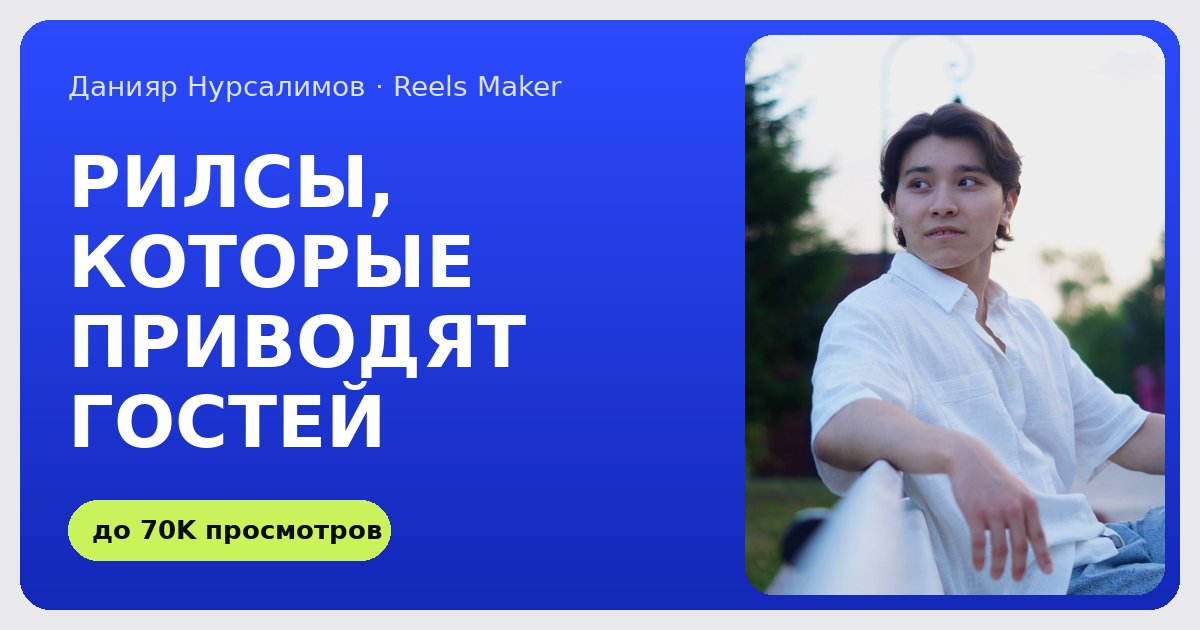
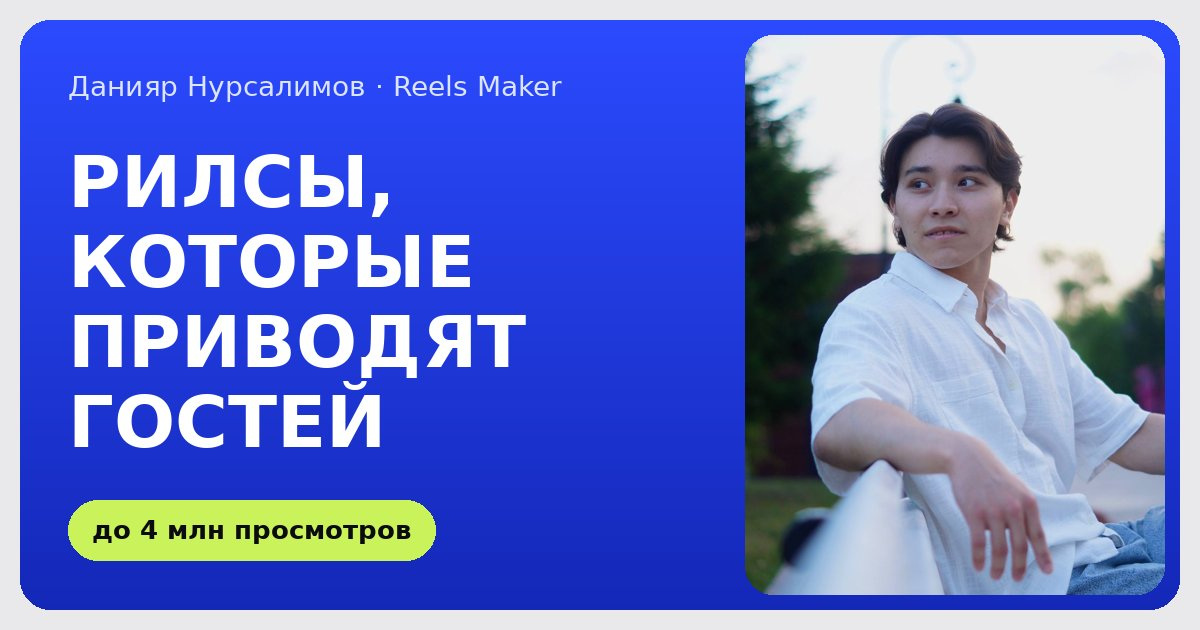
Fill Reels cases with YOKO, Chico and blog data; 4M views in header
- Cases reordered: YOKO, Chico, personal blog
- YOKO: big 4M plaque, 6270 followers / 662K likes tiles, TikTok link
- Chico: new title and texts, no account link
- Blog: 127K per day on best reel and 51K over 30 days, Instagram link
- Header stat, hero chip, meta and og descriptions: 70K -> 4M
- OG preview image regenerated with the new number
- Case videos: 9:16 with poster, loaded and played only on click
- Play button hidden when a case has no video

Claude-Session: https://claude.ai/code/session_01Y36Lw1QfzpX6iKxynzhUKg

Changed region(s): [[0.0925, 0.7841, 0.37, 0.9048]]

diff --git a/reels/index.html b/reels/index.html
@@ -4,7 +4,7 @@
 <meta charset="UTF-8">
 <meta name="viewport" content="width=device-width, initial-scale=1.0, viewport-fit=cover">
 <title>Данияр Нурсалимов — Reels Maker | Рилсы для кафе, ресторанов и магазинов</title>
-<meta name="description" content="Снимаю рилсы, которые приводят гостей, а не просто набирают лайки. Идея, сценарий, съёмка, монтаж и съёмка с моим участием в кадре. До 70K просмотров на ролик.">
+<meta name="description" content="Снимаю рилсы, которые приводят гостей, а не просто набирают лайки. Идея, сценарий, съёмка, монтаж и съёмка с моим участием в кадре. До 4 млн просмотров на лучшем ролике.">
 <meta name="author" content="Данияр Нурсалимов">
 <meta name="robots" content="index, follow">
 <meta name="theme-color" content="#2340EE">
@@ -16,7 +16,7 @@
 <meta property="og:locale" content="ru_RU">
 <meta property="og:url" content="https://daniyard4.github.io/reels/">
 <meta property="og:title" content="Данияр — Reels Maker. Рилсы, которые приводят гостей">
-<meta property="og:description" content="Идея, съёмка, монтаж и лицо бренда в кадре. Для кафе, ресторанов и магазинов.">
+<meta property="og:description" content="До 4 млн просмотров на лучшем ролике. Идея, съёмка, монтаж и лицо бренда в кадре — для кафе, ресторанов и магазинов.">
 <meta property="og:image" content="https://daniyard4.github.io/reels/og.jpg">
 <meta property="og:image:width" content="1200">
 <meta property="og:image:height" content="630">
@@ -296,6 +296,7 @@ ul{margin:0;padding:0;list-style:none;}
   width:52px;height:52px;border-radius:50%;background:#fff;color:var(--ink);
   display:grid;place-items:center;border:0;cursor:pointer;flex:none;
 }
+.play[hidden]{display:none;}
 .play svg{width:18px;height:18px;margin-left:3px;}
 .reel-glyph{
   position:absolute;inset:0;display:grid;place-items:center;
@@ -312,9 +313,40 @@ ul{margin:0;padding:0;list-style:none;}
   position:absolute;inset:0;background:url(photo.webp) 50% 20%/cover;opacity:.35;mix-blend-mode:luminosity;
 }
 
+.reel.has-video{aspect-ratio:9/16;}
+.reel video{background:#000;}
+.reel.playing .reel-stats,.reel.playing .reel-hero{opacity:0;}
+.reel.playing .reel-top,.reel.playing .reel-bottom,.reel.playing .reel-hero,.reel.playing .reel-glyph,.reel.playing .reel-face{pointer-events:none;}
+/* Крупная цифра вместо иероглифа на превью */
+.reel-hero{
+  position:absolute;inset:0;display:flex;flex-direction:column;align-items:center;justify-content:center;
+  text-align:center;pointer-events:none;
+}
+.reel-hero b{font:500 clamp(48px,15vw,76px)/1 var(--f-num);letter-spacing:-.05em;white-space:nowrap;}
+.reel-hero span{
+  margin-top:10px;padding:6px 12px;border-radius:999px;background:var(--lime);color:var(--ink);
+  font-size:12.5px;font-weight:600;
+}
+/* Плитки с цифрами внизу превью */
+.reel-stats{display:grid;grid-template-columns:1fr 1fr;gap:8px;width:100%;}
+.reel-stats div{
+  padding:10px 12px;border-radius:14px;
+  background:rgba(255,255,255,.14);backdrop-filter:blur(8px);-webkit-backdrop-filter:blur(8px);
+}
+.reel-stats div.top{background:var(--lime);color:var(--ink);}
+.reel-stats b{display:block;font:500 clamp(22px,6.6vw,28px)/1.05 var(--f-num);letter-spacing:-.04em;white-space:nowrap;}
+.reel-stats small{display:block;margin-top:4px;font-size:12px;line-height:1.25;opacity:.85;}
+.case-link{
+  display:inline-flex;align-items:center;gap:8px;margin-top:16px;
+  padding:10px 16px;border-radius:999px;background:var(--ink);color:#fff;
+  font-size:14px;font-weight:600;transition:background .2s var(--ease);
+}
+.case-link:hover{background:var(--blue);}
+.case-link svg{width:16px;height:16px;}
+.case-link em{font-style:normal;color:var(--lime);}
 .case-body{padding:20px 10px 0;}
 .case-type{font-size:13px;color:var(--muted);font-weight:500;}
-.case h3{margin-top:4px;font-size:23px;font-weight:600;letter-spacing:-.02em;}
+.case h3{margin-top:4px;font-size:23px;font-weight:600;letter-spacing:-.02em;line-height:1.2;}
 .steps{margin-top:16px;display:grid;gap:12px;}
 .steps li{display:grid;grid-template-columns:96px 1fr;gap:12px;font-size:14.5px;line-height:1.45;}
 .steps li span{font-size:12px;font-weight:600;text-transform:uppercase;letter-spacing:.06em;color:var(--muted);padding-top:2px;}
@@ -324,12 +356,6 @@ ul{margin:0;padding:0;list-style:none;}
 }
 .steps li.result span{color:#3B4A12;}
 
-/* Мини-график просмотров для личного блога */
-.views{display:flex;align-items:flex-end;gap:8px;height:96px;margin-top:4px;}
-.views div{flex:1;display:flex;flex-direction:column;justify-content:flex-end;align-items:center;gap:6px;height:100%;}
-.views i{display:block;width:100%;border-radius:8px 8px 4px 4px;background:rgba(255,255,255,.28);}
-.views div.top i{background:var(--lime);}
-.views b{font-size:12px;font-weight:600;}
 
 /* Как работаем — тёмный блок */
 .process{
@@ -573,7 +599,7 @@ footer{padding:28px 0 110px;color:var(--muted);font-size:13.5px;display:flex;jus
           <img src="photo.jpg" width="900" height="1200" alt="Данияр Нурсалимов — reels maker" fetchpriority="high">
         </picture>
         <span class="float f1"><i></i>Сам в кадре — лицо бренда</span>
-        <span class="float f2"><i></i>До 70K просмотров</span>
+        <span class="float f2"><i></i>До 4 млн просмотров</span>
       </div>
 
       <div class="hero-text">
@@ -597,8 +623,8 @@ footer{padding:28px 0 110px;color:var(--muted);font-size:13.5px;display:flex;jus
     <!-- 2. Цифры -->
     <section class="stats" aria-label="Коротко в цифрах">
       <div class="stat dark">
-        <p class="stat-label">Просмотров на ролик</p>
-        <p class="stat-num">70K</p>
+        <p class="stat-label">Просмотров на лучшем ролике</p>
+        <p class="stat-num">4&nbsp;млн</p>
       </div>
       <div class="stat">
         <p class="stat-label">Проекта: ресторан, магазин и личный блог</p>
@@ -678,46 +704,55 @@ footer{padding:28px 0 110px;color:var(--muted);font-size:13.5px;display:flex;jus
 
       <div class="cases">
         <!--
-          Чтобы вставить настоящее видео: положите файл в папку reels/cases/
-          и пропишите путь в data-video, например data-video="cases/korean.mp4".
-          Можно добавить обложку: data-poster="cases/korean.jpg".
+          Видео в кейсах: положите файл в папку reels/cases/ и пропишите путь в data-video,
+          например data-video="cases/yoko.mp4". Обложка (кадр-превью) — data-poster="cases/yoko.jpg".
+          Формат вертикальный 9:16. Видео грузится и играет только по нажатию — без автоплея.
+          Пока data-video пустой, показывается цветная заглушка.
         -->
         <article class="case">
-          <div class="reel kr" data-video="" data-poster="">
-            <span class="reel-glyph" aria-hidden="true">한식</span>
-            <div class="reel-top"><span class="reel-badge">Reels · 9:16</span></div>
-            <div class="reel-bottom">
-              <p class="reel-title">Корейская кухня, которую узнают в лицо</p>
-              <button class="play" type="button" aria-label="Смотреть ролик"><svg><use href="#i-play"/></svg></button>
-            </div>
-          </div>
-          <div class="case-body">
-            <p class="case-type">Ресторан</p>
-            <h3>Корейский ресторан</h3>
-            <ul class="steps">
-              <li><span>Задача</span>Чтобы о ресторане узнали и пришли новые гости.</li>
-              <li><span>Сделал</span>Контент-план, съёмка и монтаж, сам в кадре как лицо заведения.</li>
-              <li class="result"><span>Результат</span>Выросла узнаваемость, гостей стало больше — меня узнавали лично.</li>
-            </ul>
-          </div>
-        </article>
-
-        <article class="case">
           <div class="reel jp" data-video="" data-poster="">
-            <span class="reel-glyph" aria-hidden="true">日本</span>
-            <div class="reel-top"><span class="reel-badge">Reels · 9:16</span></div>
+            <div class="reel-hero" aria-hidden="true"><b>4&nbsp;млн</b><span>просмотров на лучшем ролике</span></div>
+            <div class="reel-top">
+              <span class="reel-badge">TikTok · 9:16</span>
+              <button class="play" type="button" aria-label="Смотреть ролик YOKO"><svg><use href="#i-play"/></svg></button>
+            </div>
             <div class="reel-bottom">
-              <p class="reel-title">Японский магазин, в который хочется зайти</p>
-              <button class="play" type="button" aria-label="Смотреть ролик"><svg><use href="#i-play"/></svg></button>
+              <div class="reel-stats" role="img" aria-label="Аккаунт YOKO: 6270 подписчиков и 662 тысячи лайков">
+                <div><b>6270</b><small>подписчиков</small></div>
+                <div class="top"><b>662K</b><small>лайков</small></div>
+              </div>
             </div>
           </div>
           <div class="case-body">
             <p class="case-type">Магазин</p>
-            <h3>Японский магазин</h3>
+            <h3>YOKO · магазин азиатских товаров</h3>
             <ul class="steps">
-              <li><span>Задача</span>Рассказать о магазине и привести покупателей офлайн.</li>
-              <li><span>Сделал</span>Контент-план, съёмка и монтаж, сам в кадре.</li>
-              <li class="result"><span>Результат</span>Выросла узнаваемость — люди приходили в магазин после роликов.</li>
+              <li><span>Задача</span>Привести покупателей в офлайн-магазин через короткие видео.</li>
+              <li><span>Сделал</span>Всё от идеи до монтажа — сценарий, съёмка, монтаж, сам в кадре.</li>
+              <li class="result"><span>Результат</span>Мой лучший ролик — 4 млн просмотров. Аккаунт: 6270 подписчиков, 662K лайков.</li>
+            </ul>
+            <a class="case-link" href="https://www.tiktok.com/@yoko_omsk" target="_blank" rel="noopener">Смотреть аккаунт <svg><use href="#i-arrow"/></svg> <em>@yoko_omsk</em></a>
+          </div>
+        </article>
+
+        <article class="case">
+          <div class="reel kr" data-video="" data-poster="">
+            <span class="reel-glyph" aria-hidden="true">한식</span>
+            <div class="reel-top">
+              <span class="reel-badge">TikTok · 9:16</span>
+              <button class="play" type="button" aria-label="Смотреть ролик Чико"><svg><use href="#i-play"/></svg></button>
+            </div>
+            <div class="reel-bottom">
+              <p class="reel-title">Корейская кухня, которую узнают в лицо</p>
+            </div>
+          </div>
+          <div class="case-body">
+            <p class="case-type">Сеть ресторанов</p>
+            <h3>Чико · сеть ресторанов корейской кухни</h3>
+            <ul class="steps">
+              <li><span>Задача</span>Сделать ресторан узнаваемым и привести гостей.</li>
+              <li><span>Сделал</span>Идеи, контент-план, съёмка, монтаж, сам в кадре как лицо заведения.</li>
+              <li class="result"><span>Результат</span>Ролики в TikTok залетали, меня узнавали гости и приходили за этим. Статистика не сохранилась — аккаунт в TikTok закрыт.</li>
             </ul>
           </div>
         </article>
@@ -725,12 +760,14 @@ footer{padding:28px 0 110px;color:var(--muted);font-size:13.5px;display:flex;jus
         <article class="case">
           <div class="reel me" data-video="" data-poster="">
             <span class="reel-face" aria-hidden="true"></span>
-            <div class="reel-top"><span class="reel-badge">Личный блог</span></div>
-            <div class="reel-bottom" style="display:block">
-              <div class="views" role="img" aria-label="Просмотры роликов: 10 тысяч, 70 тысяч и больше 20 тысяч на свежем">
-                <div><i style="height:22%"></i><b>10K</b></div>
-                <div class="top"><i style="height:100%"></i><b>70K</b></div>
-                <div><i style="height:36%"></i><b>20K+</b></div>
+            <div class="reel-top">
+              <span class="reel-badge">Instagram · личный блог</span>
+              <button class="play" type="button" aria-label="Смотреть ролик из блога"><svg><use href="#i-play"/></svg></button>
+            </div>
+            <div class="reel-bottom">
+              <div class="reel-stats" role="img" aria-label="127 тысяч просмотров на лучшем ролике за сутки и 51 тысяча просмотров за 30 дней">
+                <div class="top"><b>127K</b><small>за сутки на лучшем ролике</small></div>
+                <div><b>51K</b><small>просмотров за 30 дней</small></div>
               </div>
             </div>
           </div>
@@ -739,9 +776,10 @@ footer{padding:28px 0 110px;color:var(--muted);font-size:13.5px;display:flex;jus
             <h3>Личный блог</h3>
             <ul class="steps">
               <li><span>Задача</span>Проверить на себе, какой контент смотрят до конца.</li>
-              <li><span>Сделал</span>Идеи, съёмка, монтаж и ведение — полностью сам.</li>
-              <li class="result"><span>Результат</span>10K, 70K и 20K+ на свежем ролике. Умею делать контент, который досматривают.</li>
+              <li><span>Сделал</span>Полностью сам — идеи, съёмка, монтаж, ведение.</li>
+              <li class="result"><span>Результат</span>127K на лучшем ролике за сутки, 51K просмотров за 30 дней.</li>
             </ul>
+            <a class="case-link" href="https://www.instagram.com/daniyar.217/" target="_blank" rel="noopener">Смотреть блог <svg><use href="#i-arrow"/></svg> <em>@daniyar.217</em></a>
           </div>
         </article>
       </div>
@@ -922,21 +960,26 @@ footer{padding:28px 0 110px;color:var(--muted);font-size:13.5px;display:flex;jus
   new IntersectionObserver(function(e){contactsVisible=e[0].isIntersecting;update();},{threshold:.15}).observe(contacts);
 })();
 
-// Видео в кейсах: если в data-video указан файл, кнопка запускает его прямо в карточке
+// Видео в кейсах: превью-картинкой, грузится и играет только по нажатию (без автоплея)
 document.querySelectorAll('.reel').forEach(function(reel){
   var btn=reel.querySelector('.play');
   var src=reel.getAttribute('data-video');
   if(!btn) return;
   if(!src){ btn.hidden=true; return; }
+  reel.classList.add('has-video');
   var v=document.createElement('video');
-  v.src=src; v.playsInline=true; v.loop=true; v.preload='none';
-  v.setAttribute('playsinline','');
+  v.preload='none'; v.playsInline=true; v.setAttribute('playsinline','');
   var poster=reel.getAttribute('data-poster'); if(poster) v.poster=poster;
   reel.insertBefore(v,reel.firstChild);
   btn.addEventListener('click',function(){
-    v.play(); reel.classList.add('playing');
+    if(!v.src) v.src=src;
+    v.controls=true;
+    reel.classList.add('playing');
+    var pr=v.play();
+    if(pr && pr.catch) pr.catch(function(){ reel.classList.remove('playing'); v.controls=false; });
   });
-  v.addEventListener('click',function(){ v.pause(); reel.classList.remove('playing'); });
+  v.addEventListener('pause',function(){ if(!v.seeking) reel.classList.remove('playing'); v.controls=false; });
+  v.addEventListener('ended',function(){ reel.classList.remove('playing'); v.controls=false; });
 });
 </script>
 </body>
